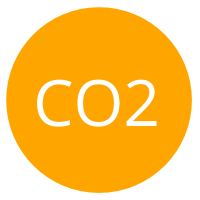
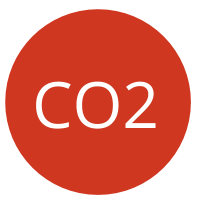
new colors

diff --git a/main.css b/main.css
@@ -121,7 +121,7 @@
   }
   100% {
     opacity: 0.0;
-    transform: translate(0, -220px) scale(1);
+    transform: translate(0, -200px) scale(1);
   }
 }
 
